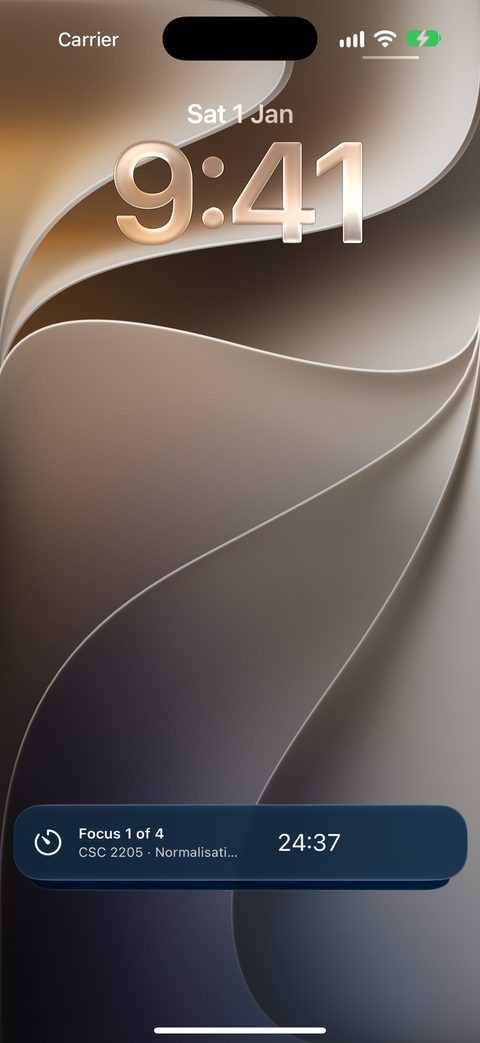
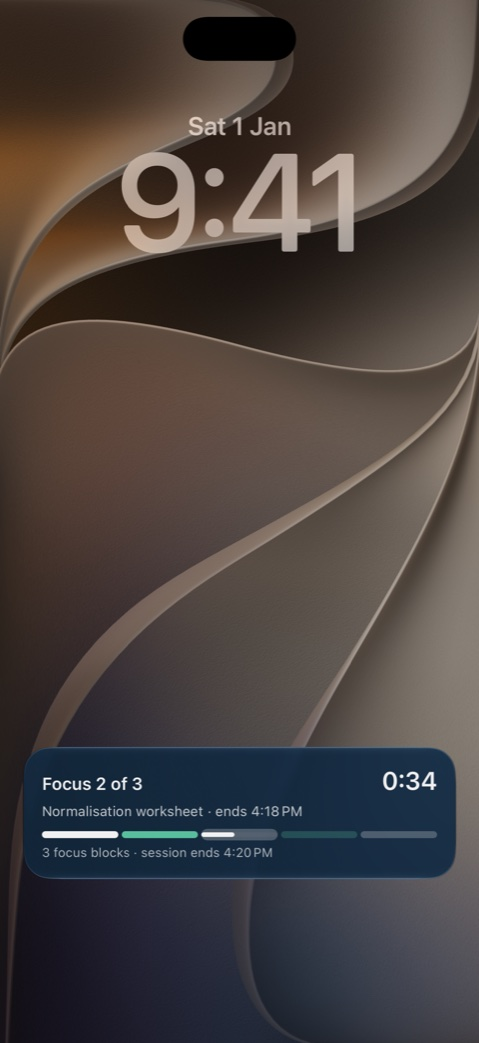
docs: the focus timer's Lock Screen card and Android notification show the whole session

diff --git a/docs/features/pomodoro.md b/docs/features/pomodoro.md
@@ -31,7 +31,7 @@ timer.
 
 ![The running timer as a bar above the tabs](../img/phone-focus-running.png){ width="200" }
 ![The full timer: the countdown, one dot per session, and what you're focusing on](../img/phone-focus-timer.png){ width="200" }
-![On the Lock Screen: Focus 1 of 4 with the subject and a countdown](../img/phone-focus-lockscreen.jpg){ width="200" }
+![On the Lock Screen: Focus 2 of 3, the item, a countdown, and the whole session as a bar of blocks](../img/phone-focus-lockscreen.jpg){ width="200" }
 
 The full timer has three buttons:
 
@@ -48,9 +48,13 @@ The arrow at the top shrinks the full timer back to the bar.
 
 **Outside the app:**
 
-- **iPhone:** the timer stays on the Lock Screen and in the Dynamic Island, with the phase, the
-  subject and the time left.
-- **Android:** an ongoing notification shows the same.
+- **iPhone:** the timer stays on the Lock Screen and in the Dynamic Island. The Lock Screen shows
+  the phase, what you're working on and the time left, with the whole session as a bar underneath:
+  blocks you've finished are solid, the one you're in fills up as you go, and breaks are green. It
+  also says when this block and the whole session end. The card turns green on a break and grey
+  while paused.
+- **Android:** an ongoing notification shows the phase, the time left and a bar for the whole
+  session. On Android 16 and later the bar is split into your focus blocks and breaks.
 
 The timer keeps time even if the app is closed: come back and it's where it should be.
 
